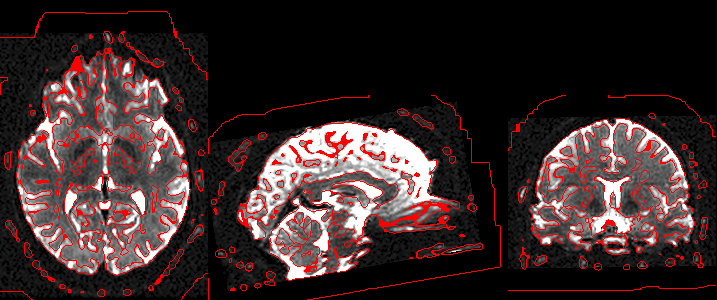
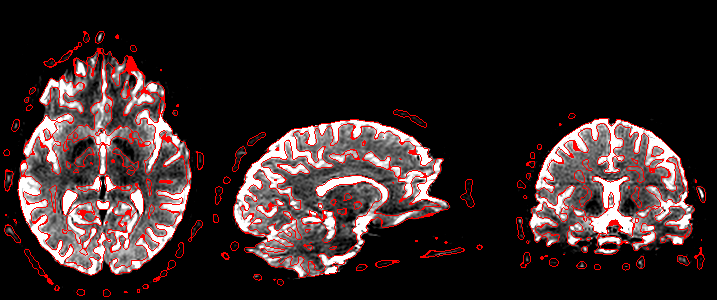
Update notes

diff --git a/dog.py b/dog.py
@@ -7,7 +7,7 @@
 #Output
 #  Binary NIfTI image with 'z' prefix
 #Example Usage
-# python blur.py ./DWI.nii 4
+# python dog.py ./DWI.nii 4
 
 import nibabel as nib
 from scipy import ndimage
@@ -121,7 +121,7 @@ def _smooth_array(arr, affine, fwhm=None, ensure_finite=True, copy=True):
         # FWHM = sigma*sqrt(8*ln(2)) = sigma*2.3548.
         #convert fwhm to sd in voxels see https://github.com/0todd0000/spm1d
         fwhmvox = fwhm / vox_size
-        sd    = fwhmvox / math.sqrt(8 * math.log(2))
+        sd = fwhmvox / math.sqrt(8 * math.log(2))
         for n, s in enumerate(sd):
             if s > 0.0:
                 ndimage.gaussian_filter1d(arr, s, output=arr, axis=n)
@@ -129,7 +129,7 @@ def _smooth_array(arr, affine, fwhm=None, ensure_finite=True, copy=True):
 
 def binary_zero_crossing(img):
     #binarize: negative voxels are zero
-    edge = np.where(img >= 0.0, 1, 0)
+    edge = np.where(img > 0.0, 1, 0)
     edge = ndimage.distance_transform_edt(edge)
     edge[edge > 1] = 0
     edge[edge > 0] = 1
@@ -169,8 +169,8 @@ def process_nifti(fnm, fwhm):
     img = dehaze(img, 5)
     img = difference_of_gaussian(hdr, img, fwhm)
     nii = nib.Nifti1Image(img, hdr.affine, hdr.header)
-    print(nii.header)
-    #clear intent code
+    # print(nii.header)
+    #update header
     nii.header.set_data_dtype(np.uint8)  
     nii.header['intent_code'] = 0
     nii.header['scl_slope'] = 1.0

diff --git a/README.md b/README.md
@@ -14,6 +14,14 @@ You provide two arguments: the name of the NIfTI image to process and the size o
 python dog.py ./DWI.nii.gz 4
 ```
 
+## Implementation and Dependencies
+
+ - [numpy](https://numpy.org) is used for numerics.
+ - scikit-image [Multi-Otsu Thresholding](https://scikit-image.org/docs/dev/auto_examples/segmentation/plot_multiotsu.html) is used to remove haze (zero uninteresting voxels).
+ - scipy [gaussian_filter1d](https://docs.scipy.org/doc/scipy/reference/generated/scipy.ndimage.gaussian_filter1d.html) is used for Gaussian blur.
+ - scipy [distance_transform_edt](https://docs.scipy.org/doc/scipy/reference/generated/scipy.ndimage.distance_transform_edt.html) is used to create an edge map of voxels that are at a [zero-crossing](https://homepages.inf.ed.ac.uk/rbf/HIPR2/zeros.htm).
+ - [nibabel](https://nipy.org/nibabel/) if used to read and write NIfTI images.
+
 ## Links
 
  - [Additional sample images](https://github.com/neurolabusc/DoG)
